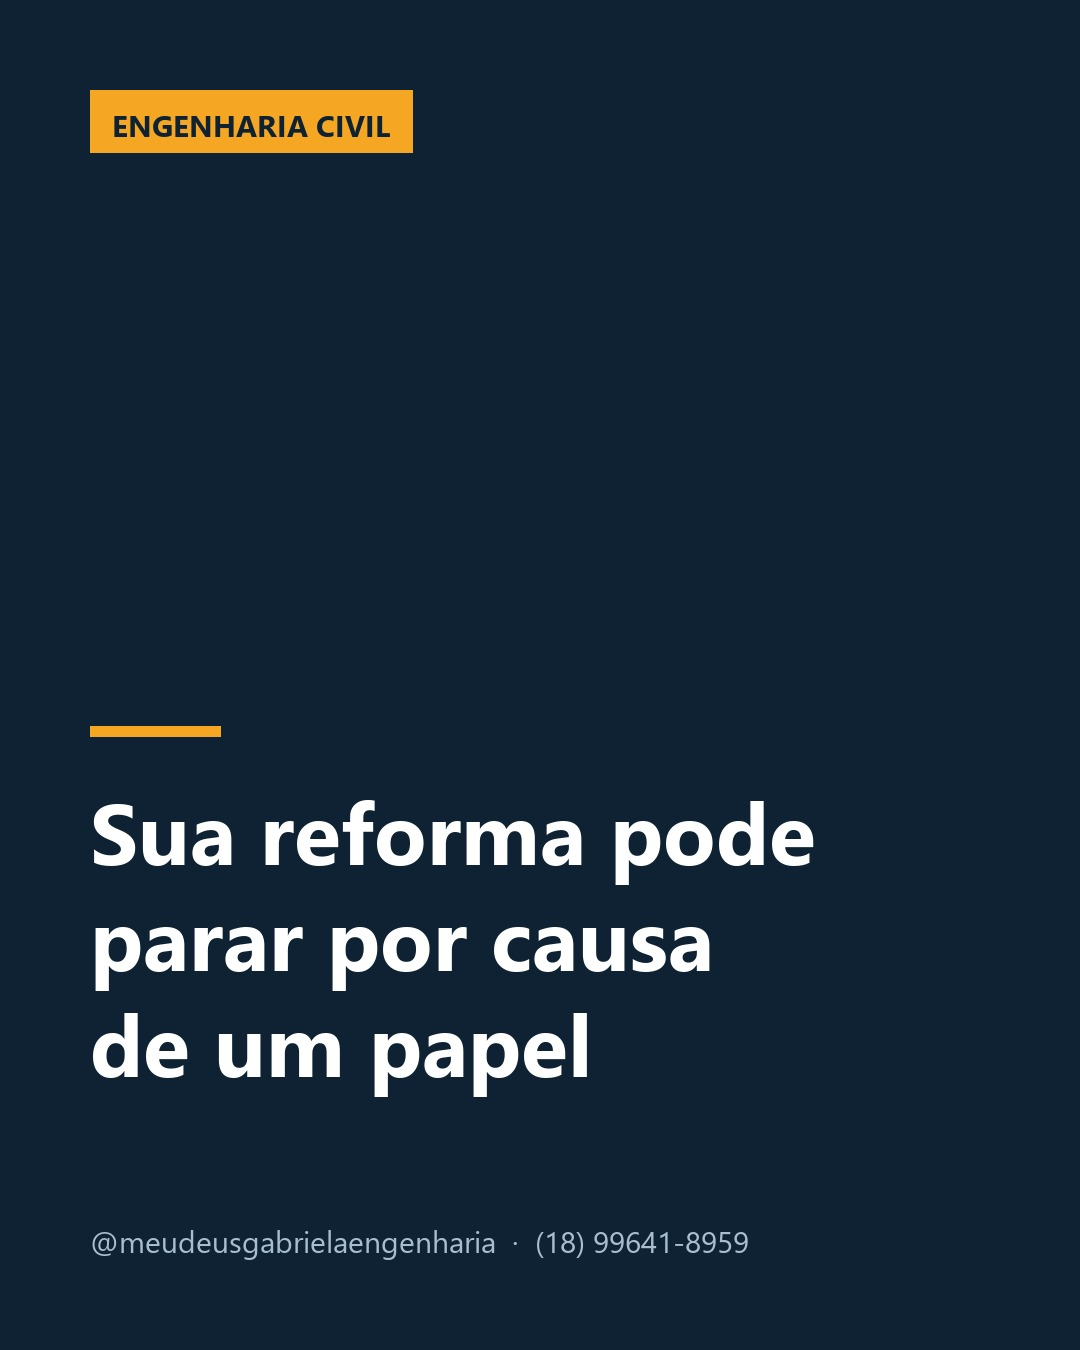
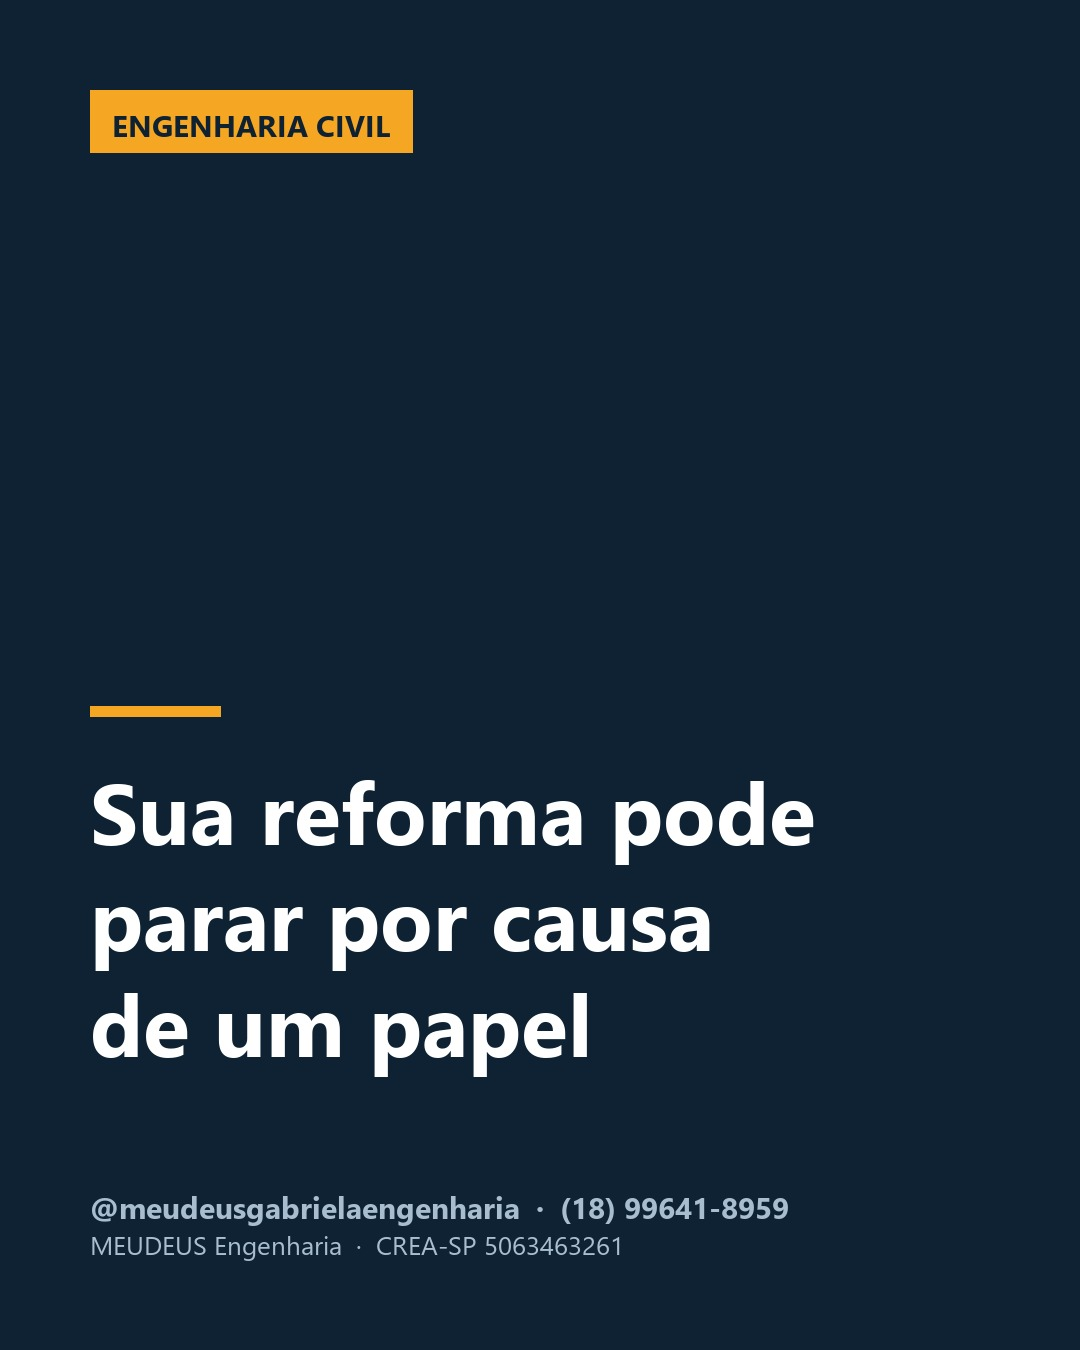
Identidade profissional real: nome, CREA e marca MEUDEUS
kb/identidade.yaml passa a ser a fonte única de quem assina — cópia de
projects/laudos/kb/responsavel-tecnica.yaml, mesma convenção dos demais projetos
do workspace. O rodapé da arte sai de lá em vez de estar fixo no código, e agora
credencia: MEUDEUS Engenharia · CREA-SP 5063463261.

Fica anotada a divergência entre a praça de captação (Presidente Prudente e
região) e o endereço profissional registrado (São Paulo capital): ela muda o que
a copy pode prometer sobre atendimento presencial.

Changed region(s): [[0.0611, 0.4978, 0.7639, 0.8089], [0.0917, 0.8711, 0.7333, 0.9333]]

diff --git a/src/engenharia/arte/compor.py b/src/engenharia/arte/compor.py
@@ -70,7 +70,12 @@ def _fundo_de_foto(caminho: Path) -> Image.Image:
     return Image.alpha_composite(foto.convert("RGBA"), veu).convert("RGB")
 
 
-def _tela(titulo: str, rodape: str, foto: Path | None = None, etiqueta: str | None = None) -> Image.Image:
+def _tela(
+    titulo: str,
+    rodape: tuple[str, str],
+    foto: Path | None = None,
+    etiqueta: str | None = None,
+) -> Image.Image:
     imagem = _fundo_de_foto(foto) if foto else Image.new("RGB", (LARGURA, ALTURA), FUNDO)
     desenho = ImageDraw.Draw(imagem)
 
@@ -94,21 +99,23 @@ def _tela(titulo: str, rodape: str, foto: Path | None = None, etiqueta: str | No
         if altura_total <= ALTURA - 2 * MARGEM - 300:
             break
 
-    y = ALTURA - MARGEM - 170 - altura_total
+    y = ALTURA - MARGEM - 190 - altura_total
     desenho.rectangle([MARGEM, y - 46, MARGEM + 130, y - 36], fill=DESTAQUE)
     for linha in linhas:
         desenho.text((MARGEM, y), linha, font=fonte, fill=TEXTO)
         y += altura_linha
 
-    fonte_rodape = _fonte(30, negrito=False)
-    desenho.text((MARGEM, ALTURA - MARGEM - 40), rodape, font=fonte_rodape, fill=APOIO)
+    # Duas linhas: a primeira capta (handle e WhatsApp), a segunda credencia (empresa e CREA).
+    desenho.text((MARGEM, ALTURA - MARGEM - 74), rodape[0], font=_fonte(30, negrito=True), fill=APOIO)
+    desenho.text((MARGEM, ALTURA - MARGEM - 34), rodape[1], font=_fonte(26, negrito=False), fill=APOIO)
     return imagem
 
 
 def compor(post: dict, destino: Path) -> tuple[list[Path], list[str]]:
     """Gera as imagens do post. Devolve os arquivos e os avisos do que não deu para usar."""
     avisos: list[str] = []
-    rodape = "@meudeusgabrielaengenharia  ·  (18) 99641-8959"
+    identidade = config.identidade()["rodape"]
+    rodape = (identidade["linha_1"], identidade["linha_2"])
     destino.mkdir(parents=True, exist_ok=True)
 
     foto = None

diff --git a/src/engenharia/config.py b/src/engenharia/config.py
@@ -32,6 +32,11 @@ def hashtags() -> dict:
     return carregar_yaml(KB / "hashtags.yaml")
 
 
+def identidade() -> dict:
+    """Quem assina: nome, CREA, empresa, contato e handle. Nada disso mora em código."""
+    return carregar_yaml(KB / "identidade.yaml")
+
+
 def termos_proibidos() -> list[str]:
     """Lê a lista do bloco YAML de `kb/regras-publicidade.md`.
 

diff --git a/kb/dados-empresa.md b/kb/dados-empresa.md
@@ -1,31 +1,16 @@
-# Dados da operação — fonte única
+# A operação: segmentos, público e serviços
 
-Qualquer legenda, arte, bio ou resposta de DM que cite contato, nome ou registro usa **estes**
-valores. Divergência entre o que está aqui e o que foi publicado é erro de publicação, não de
-cadastro.
+Quem assina, registro, contato e handle estão em `kb/identidade.yaml` — é lá que a arte e a copy vão
+buscar. Este arquivo trata do resto: para quem o perfil fala e o que ele pode oferecer.
 
-## Perfil
+## Praça
 
-| Campo | Valor |
-| --- | --- |
-| Instagram | `@meudeusgabrielaengenharia` |
-| Nome do perfil (campo pesquisável) | `Gabriela \| Engenharia e Laudos` |
-| WhatsApp / telefone | (18) 99641-8959 |
-| Link da bio | `https://wa.me/5518996418959?text=Ol%C3%A1%2C+vim+pelo+Instagram` |
-| Cidade-base | Presidente Prudente/SP |
-| Raio de atendimento | ⟨PENDENTE: até quantos km você se desloca para vistoria? Define quais cidades entram nas hashtags locais e nos anúncios⟩ |
+Atuação: **Presidente Prudente/SP e região**. O endereço profissional registrado é em São Paulo
+capital — ver a pendência anotada em `kb/identidade.yaml`, que precisa de resposta antes de a copy
+prometer visita ou atendimento presencial com frequência.
 
-## Responsável técnica
-
-| Campo | Valor |
-| --- | --- |
-| Nome completo (como no registro) | ⟨PENDENTE: o workspace usa "Gabriela Calabreta" em `laudos/` e `semijoias-captacao/` e "Gabriela Alves de Lima Cardoso" em `pericias-judiciais/`, `calculos-estruturais/` e `desenhos-tecnicos/` — qual vale no perfil?⟩ |
-| Registro CREA | ⟨PENDENTE: número e UF⟩ |
-| Formações | Engenharia civil, engenharia ambiental, engenharia de segurança do trabalho |
-| CNPJ (se a atuação for PJ) | ⟨PENDENTE⟩ |
-
-O registro CREA precisa aparecer no perfil e em qualquer peça que cite responsabilidade técnica.
-Enquanto estiver `⟨PENDENTE⟩`, nenhuma arte deve exibir número de registro.
+⟨PENDENTE: até quantos km você se desloca para vistoria? Define quais cidades entram nas hashtags
+locais e se cabe anunciar atendimento presencial na região⟩
 
 ## Segmentos e prioridade
 
@@ -35,16 +20,27 @@ Enquanto estiver `⟨PENDENTE⟩`, nenhuma arte deve exibir número de registro.
 | Engenharia civil | 40% | Pessoa física (obra, reforma, imóvel) e construtoras |
 | Engenharia ambiental | 20% | Empresa e produtor rural, quando houver gancho de calendário |
 
+## Os dois públicos
+
+| Público | O que tira o sono | Post que converte |
+| --- | --- | --- |
+| Empresa | Fiscalização do trabalho, multa de NR, exigência de cliente ou seguradora | PGR/PCMSO, insalubridade, prazos legais |
+| Pessoa física | Obra embargada, habite-se, financiamento, prefeitura | Regularização, laudo estrutural, ART, projeto |
+
 ## Serviços que a copy pode oferecer
 
-Lista fechada. Serviço que não está aqui não é anunciado até ser adicionado aqui.
+Lista fechada. Serviço que não está aqui não é anunciado até ser acrescentado aqui.
 
-- Segurança do trabalho: PGR, PCMSO (em conjunto com médico do trabalho), laudo de insalubridade,
+- **Segurança do trabalho:** PGR, PCMSO (em conjunto com médico do trabalho), laudo de insalubridade,
   laudo de periculosidade, LTCAT, avaliação de agentes (ruído, calor, químicos), ordens de serviço,
   apoio em fiscalização.
-- Civil: laudo técnico de edificação, vistoria de patologia (fissura, infiltração, recalque),
+- **Civil:** laudo técnico de edificação, vistoria de patologia (fissura, infiltração, recalque),
   vistoria pré-compra, projeto e regularização de imóvel, acompanhamento de obra, ART.
-- Ambiental: licenciamento ambiental, outorga, gestão de resíduos, estudos e laudos ambientais.
+- **Ambiental:** licenciamento ambiental, outorga, gestão de resíduos, estudos e laudos ambientais.
 
-⟨PENDENTE: confirmar esta lista — retirar o que você não quer atender agora e acrescentar o que
-faltou. É a lista que o motor usa para montar os posts do pilar "serviço e prova"⟩
+Os outros projetos do workspace mostram que há capacidade instalada também em **avaliação de imóveis
+(NBR 14653)**, **perícia judicial**, **cálculo estrutural** e **desenho técnico/projeto em DXF**.
+
+⟨PENDENTE: quer captar esses quatro por aqui também? Perícia judicial e avaliação de imóveis têm
+público próprio (advogados, bancos, corretores) e renderiam um pilar dedicado — mas só entram na
+pauta se você quiser esse tipo de cliente vindo do Instagram⟩
